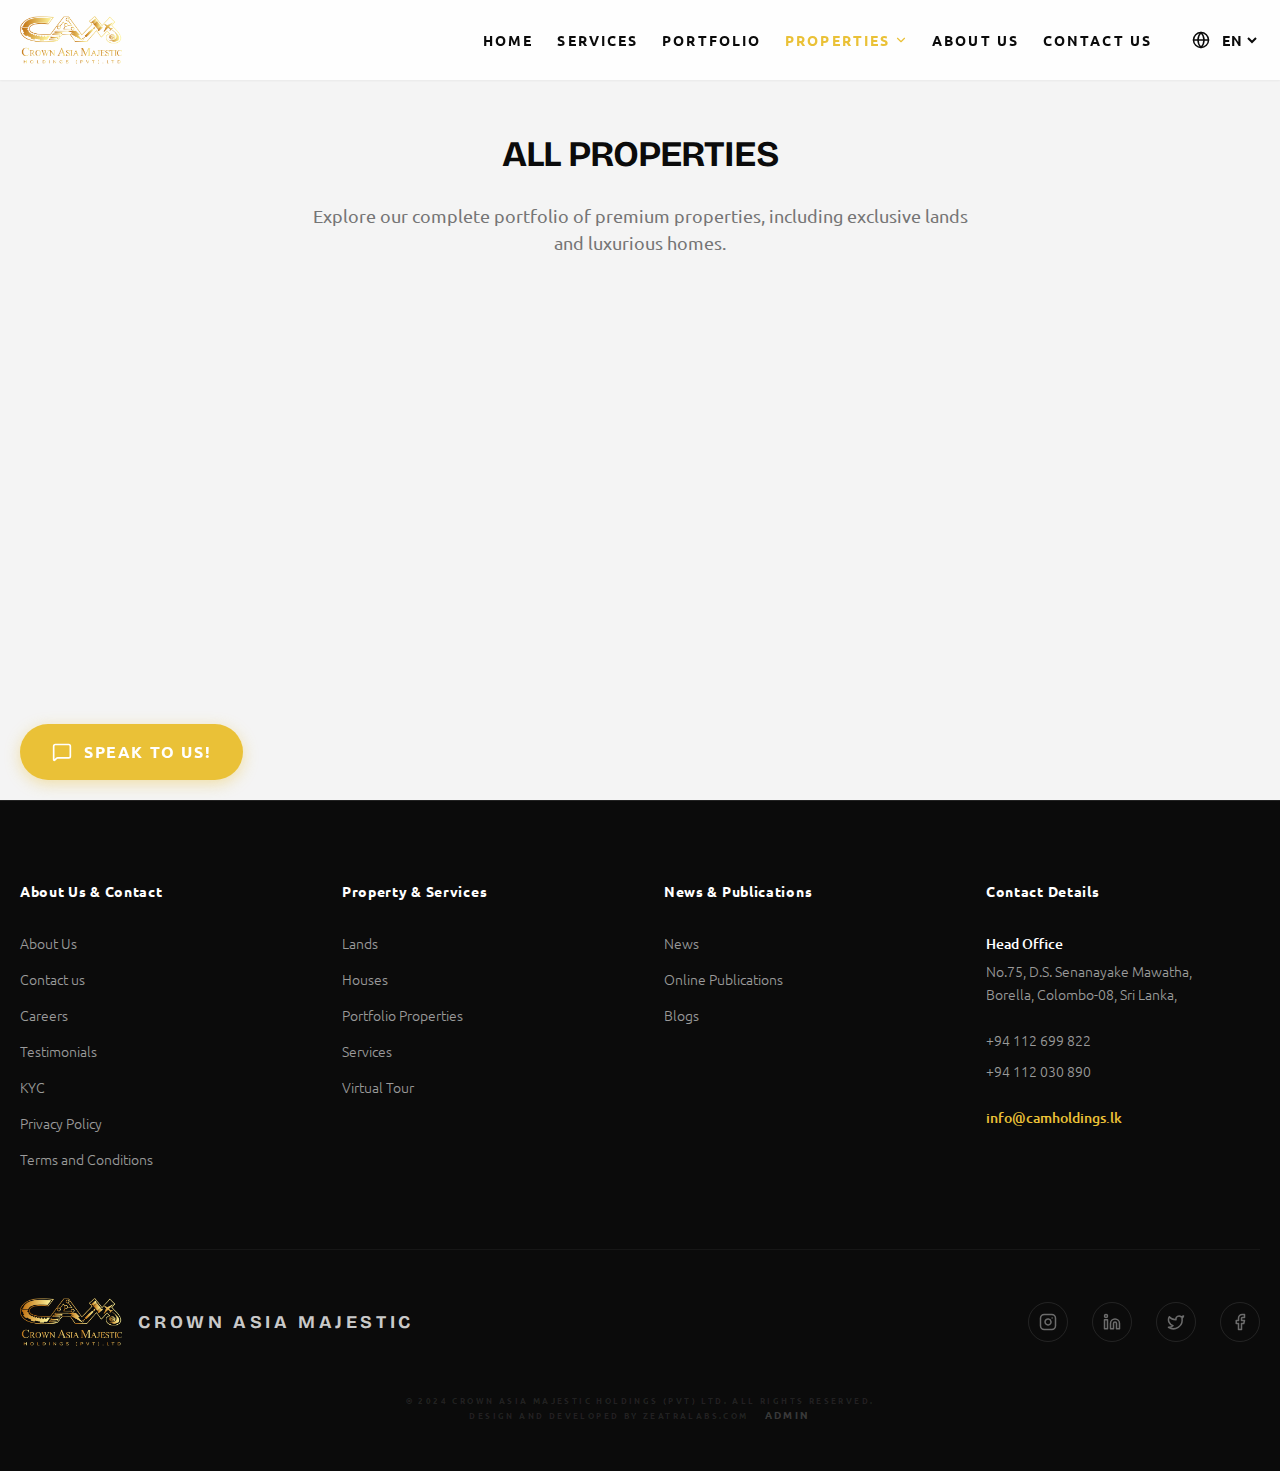
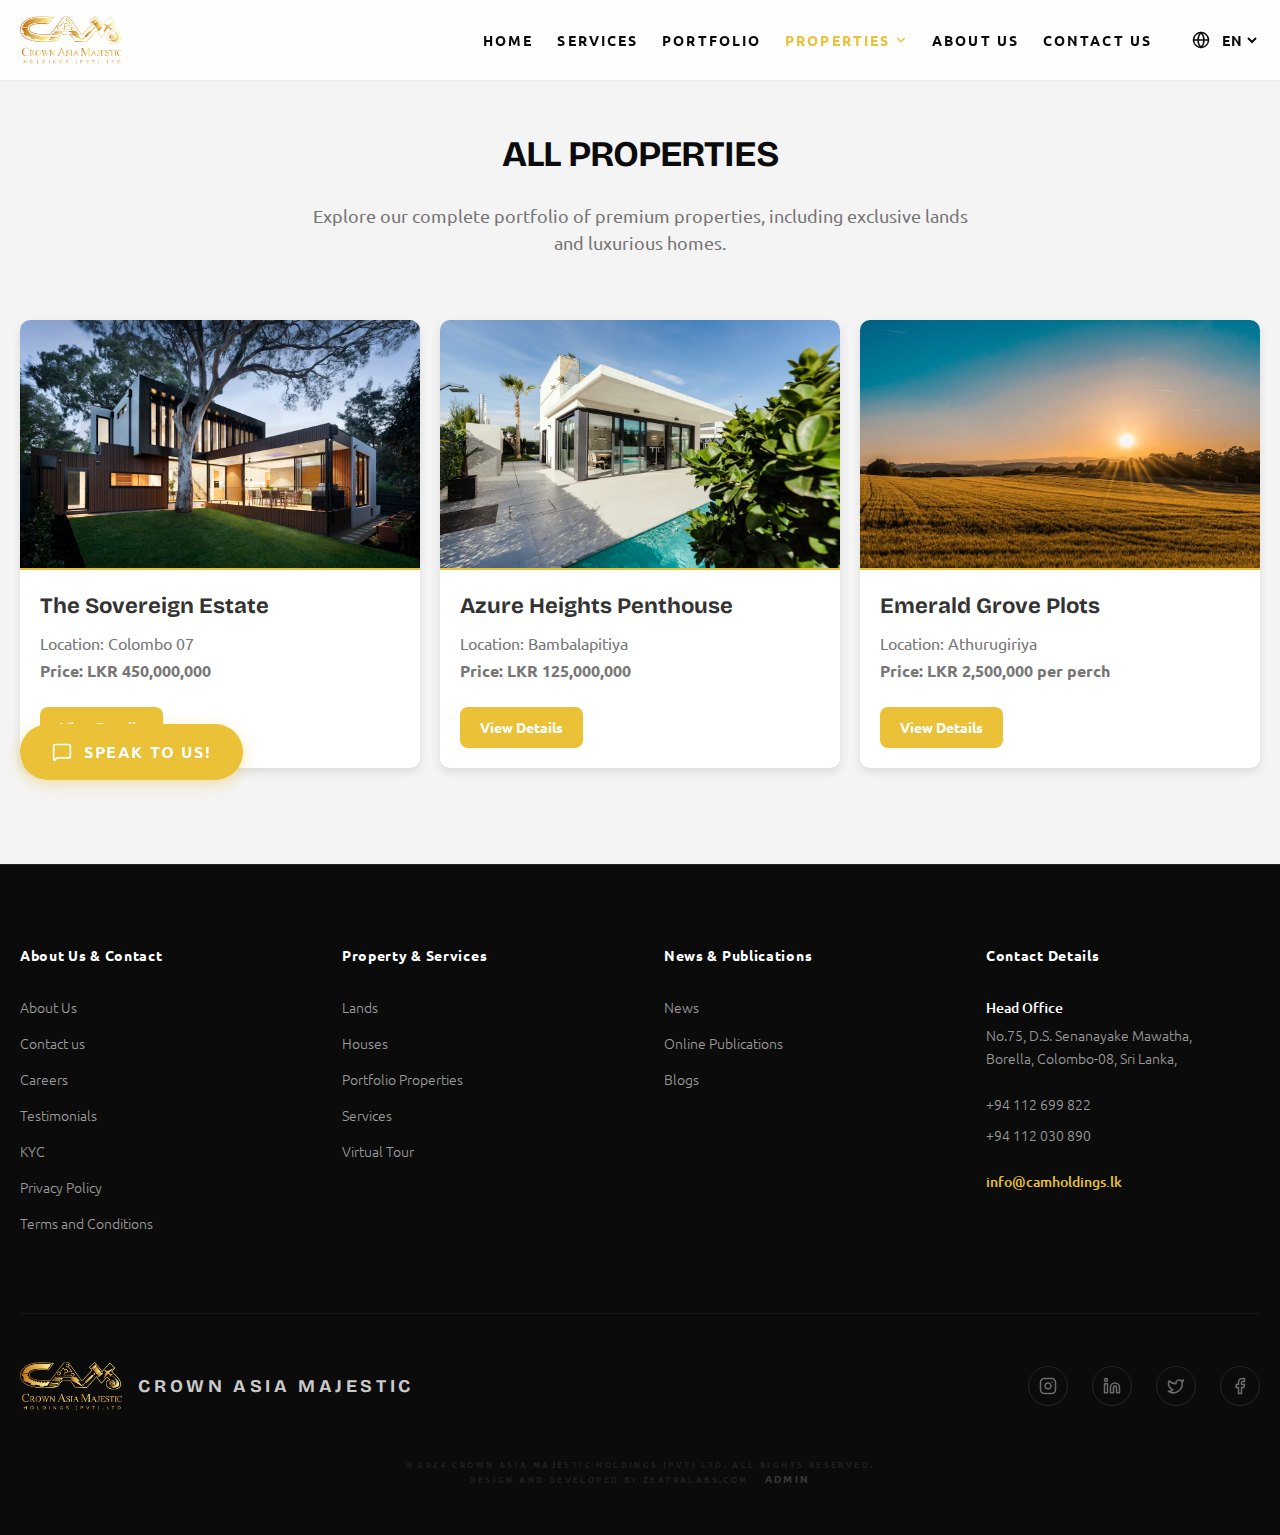
feat: enhance property details and card UI
- Added `gallery` field to `Property` interface.
- Updated `/api/properties` to return gallery images for all properties.
- Updated `PropertyCard` to include an image carousel and restyled it to match a premium layout with stats (beds, baths) and price.
- Revamped the property detail view in `App.tsx` with a 2-column layout, image grid, detailed features, and a sticky inquiry form section.

diff --git a/App.tsx b/App.tsx
@@ -36,7 +36,7 @@ import {
   Loader2
 } from 'lucide-react';
 
-type Page = 'home' | 'projects' | 'lands' | 'houses' | 'detail' | 'portfolio-detail' | 'services' | 'service-detail' | 'about' | 'contact' | 'portfolio' | 'testimonials' | 'kyc' | 'privacy' | 'terms' | 'virtual-tour' | 'news' | 'publications' | 'blogs' | 'admin';
+type Page = 'home' | 'properties' | 'projects' | 'lands' | 'houses' | 'detail' | 'portfolio-detail' | 'services' | 'service-detail' | 'about' | 'contact' | 'portfolio' | 'testimonials' | 'kyc' | 'privacy' | 'terms' | 'virtual-tour' | 'news' | 'publications' | 'blogs' | 'admin';
 
 interface Service {
   id: string;
@@ -626,33 +626,147 @@ const App: React.FC = () => {
         )}
 
         {/* 8. Detail Page View */}
-        {activePage === 'detail' && (
-          <div className="animate-in fade-in duration-500 bg-white pb-32">
-            <div className="relative h-[60vh] w-full overflow-hidden">
-              <img src={selectedProperty?.image || properties[0]?.image} className="w-full h-full object-cover" alt="Detail" />
-              <div className="absolute inset-0 bg-gradient-to-t from-black/80 via-transparent to-transparent" />
-              <div className="absolute bottom-12 px-mobile w-full flex justify-center">
-                <div className="max-w-7xl w-full">
-                  <div className="flex items-center gap-3 text-luxury-gold mb-4">
-                    <MapPin size={20} />
-                    <span className="text-sm uppercase font-bold tracking-brand">{selectedProperty?.location || 'Location'}</span>
-                  </div>
-                  <h1 className="text-4xl md:text-6xl font-serif text-white leading-tight mb-4 uppercase">{selectedProperty?.title || 'Property Detail'}</h1>
-                </div>
-              </div>
-            </div>
+        {activePage === 'detail' && selectedProperty && (
+          <div className="animate-in fade-in duration-500 bg-[#f8f9fa] pb-32 pt-24">
+            <div className="max-w-7xl mx-auto px-mobile py-12">
+              <div className="grid grid-cols-1 lg:grid-cols-3 gap-12">
 
-            <div className="max-w-7xl mx-auto px-mobile py-16">
-              {selectedProperty?.description && (
-                <div className="mb-12">
-                  <h2 className="text-2xl font-serif font-bold text-luxury-black mb-6 uppercase tracking-tight border-b border-luxury-border pb-4">
-                    Description
-                  </h2>
-                  <div className="prose prose-lg max-w-none text-[#555] font-light leading-relaxed whitespace-pre-line">
-                    {selectedProperty.description}
+                {/* Left Content Area */}
+                <div className="lg:col-span-2 space-y-12">
+
+                  {/* Gallery */}
+                  <div className="bg-white rounded-2xl p-6 shadow-sm border border-luxury-border">
+                    <div className="aspect-[16/9] overflow-hidden rounded-xl mb-4 bg-luxury-offwhite">
+                      <img src={selectedProperty.image} className="w-full h-full object-cover" alt={selectedProperty.title} />
+                    </div>
+                    {selectedProperty.gallery && selectedProperty.gallery.length > 0 && (
+                      <div className="grid grid-cols-4 gap-4">
+                        {selectedProperty.gallery.map((img, idx) => (
+                          <div key={idx} className="aspect-[4/3] rounded-lg overflow-hidden cursor-pointer hover:opacity-80 transition-opacity bg-luxury-offwhite border border-luxury-border">
+                            <img src={img} className="w-full h-full object-cover" alt={`${selectedProperty.title} gallery ${idx + 1}`} />
+                          </div>
+                        ))}
+                      </div>
+                    )}
+                  </div>
+
+                  {/* Details Header */}
+                  <div>
+                     <h1 className="text-3xl md:text-5xl font-serif font-bold text-luxury-black mb-4 uppercase">{selectedProperty.title}</h1>
+                     <div className="flex flex-wrap items-center gap-4 text-[#555] font-medium text-lg">
+                       <span className="flex items-center gap-2"><MapPin size={20} className="text-luxury-black" /> {selectedProperty.location}</span>
+                     </div>
+                  </div>
+
+                  {/* Description */}
+                  {selectedProperty.description && (
+                    <div className="bg-white rounded-2xl p-8 shadow-sm border border-luxury-border">
+                      <h2 className="text-2xl font-serif font-bold text-luxury-black mb-6 border-b border-luxury-border pb-4">About the Project</h2>
+                      <div className="prose prose-lg max-w-none text-[#555] leading-relaxed whitespace-pre-wrap">
+                        {selectedProperty.description}
+                      </div>
+                    </div>
+                  )}
+
+                  {/* Features / Details */}
+                  <div className="bg-white rounded-2xl p-8 shadow-sm border border-luxury-border">
+                      <h2 className="text-2xl font-serif font-bold text-luxury-black mb-6 border-b border-luxury-border pb-4">Premium Features</h2>
+                      <div className="grid grid-cols-2 md:grid-cols-4 gap-6">
+                        <div className="text-center p-4 bg-luxury-offwhite rounded-xl">
+                          <div className="text-sm text-[#777] uppercase tracking-wider mb-2">Price</div>
+                          <div className="font-bold text-luxury-black text-xl">{selectedProperty.price}</div>
+                        </div>
+                        <div className="text-center p-4 bg-luxury-offwhite rounded-xl">
+                          <div className="text-sm text-[#777] uppercase tracking-wider mb-2">Type</div>
+                          <div className="font-bold text-luxury-black text-xl">{selectedProperty.type}</div>
+                        </div>
+                        {selectedProperty.beds !== undefined && (
+                          <div className="text-center p-4 bg-luxury-offwhite rounded-xl">
+                            <div className="text-sm text-[#777] uppercase tracking-wider mb-2">Beds</div>
+                            <div className="font-bold text-luxury-black text-xl">{selectedProperty.beds}</div>
+                          </div>
+                        )}
+                        {selectedProperty.baths !== undefined && (
+                          <div className="text-center p-4 bg-luxury-offwhite rounded-xl">
+                            <div className="text-sm text-[#777] uppercase tracking-wider mb-2">Baths</div>
+                            <div className="font-bold text-luxury-black text-xl">{selectedProperty.baths}</div>
+                          </div>
+                        )}
+                      </div>
                   </div>
                 </div>
-              )}
+
+                {/* Right Sticky Sidebar (Inquiry Form) */}
+                <div className="lg:col-span-1">
+                  <div className="sticky top-32 bg-white rounded-2xl p-8 shadow-[0px_8px_30px_rgba(0,0,0,0.06)] border border-luxury-border">
+                    <div className="text-center mb-8">
+                       <h3 className="text-xl font-bold text-[#777] uppercase tracking-wider mb-2">Starting Price</h3>
+                       <div className="text-3xl font-bold text-luxury-black">{selectedProperty.price}</div>
+                    </div>
+
+                    <h3 className="text-2xl font-serif font-bold text-luxury-black mb-6 uppercase border-b border-luxury-border pb-4 text-center">Inquire</h3>
+
+                    <form
+                      className="space-y-4"
+                      onSubmit={async (e) => {
+                        e.preventDefault();
+                        const form = e.target as HTMLFormElement;
+                        const formData = new FormData(form);
+                        const data = {
+                          full_name: formData.get('name'),
+                          email: formData.get('email'),
+                          phone: formData.get('phone'),
+                          message: formData.get('message'),
+                          subject: `Inquiry for ${selectedProperty.title}`,
+                          service: 'Property Inquiry'
+                        };
+
+                        try {
+                           const res = await fetch('/api/inquiries', {
+                             method: 'POST',
+                             headers: { 'Content-Type': 'application/json' },
+                             body: JSON.stringify(data)
+                           });
+                           if (res.ok) {
+                             alert('Inquiry sent successfully!');
+                             form.reset();
+                           } else {
+                             alert('Failed to send inquiry.');
+                           }
+                        } catch (err) {
+                          console.error(err);
+                          alert('An error occurred.');
+                        }
+                      }}
+                    >
+                      <div>
+                        <input name="name" type="text" placeholder="Name" required className="w-full p-4 border border-[#ddd] rounded-xl focus:ring-1 focus:ring-luxury-gold focus:border-luxury-gold outline-none transition-all text-[15px] bg-[#fafafa]" />
+                      </div>
+                      <div>
+                        <input name="phone" type="tel" placeholder="Phone Number" required className="w-full p-4 border border-[#ddd] rounded-xl focus:ring-1 focus:ring-luxury-gold focus:border-luxury-gold outline-none transition-all text-[15px] bg-[#fafafa]" />
+                      </div>
+                      <div>
+                        <input name="email" type="email" placeholder="Email Address" required className="w-full p-4 border border-[#ddd] rounded-xl focus:ring-1 focus:ring-luxury-gold focus:border-luxury-gold outline-none transition-all text-[15px] bg-[#fafafa]" />
+                      </div>
+                      <div>
+                        <textarea name="message" placeholder="Message" required rows={4} className="w-full p-4 border border-[#ddd] rounded-xl focus:ring-1 focus:ring-luxury-gold focus:border-luxury-gold outline-none transition-all resize-none text-[15px] bg-[#fafafa]"></textarea>
+                      </div>
+                      <button type="submit" className="w-full bg-[#0A41A8] hover:bg-[#083180] text-white px-6 py-4 rounded-xl font-bold uppercase tracking-wide transition-all mt-4 text-[15px] shadow-md">
+                        Submit Inquiry
+                      </button>
+                    </form>
+
+                    <div className="mt-8 text-center border-t border-luxury-border pt-6">
+                      <div className="text-[13px] text-[#777] uppercase tracking-widest mb-2 font-bold">Hotline Numbers</div>
+                      <a href="tel:0712030838" className="text-xl font-bold text-luxury-black flex items-center justify-center gap-2 hover:text-luxury-gold transition-colors">
+                        <Phone size={20} />
+                        071 20 30 838
+                      </a>
+                    </div>
+                  </div>
+                </div>
+
+              </div>
             </div>
           </div>
         )}

diff --git a/components/PropertyCard.tsx b/components/PropertyCard.tsx
@@ -1,5 +1,5 @@
-import React from 'react';
-import { MapPin, ChevronRight } from 'lucide-react';
+import React, { useState } from 'react';
+import { MapPin, ChevronRight, Bed, Bath, ArrowRight, ChevronLeft } from 'lucide-react';
 import { Property } from '../types';
 
 interface PropertyCardProps {
@@ -8,48 +8,103 @@ interface PropertyCardProps {
 }
 
 const PropertyCard: React.FC<PropertyCardProps> = ({ property, onClick }) => {
+  const images = property.gallery && property.gallery.length > 0 ? property.gallery : [property.image];
+  const [currentImageIdx, setCurrentImageIdx] = useState(0);
+
+  const handleNext = (e: React.MouseEvent) => {
+    e.stopPropagation();
+    setCurrentImageIdx((prev) => (prev + 1) % images.length);
+  };
+
+  const handlePrev = (e: React.MouseEvent) => {
+    e.stopPropagation();
+    setCurrentImageIdx((prev) => (prev - 1 + images.length) % images.length);
+  };
+
   return (
     <div 
       onClick={onClick}
-      className="group bg-white rounded-2xl overflow-hidden shadow-sm border border-luxury-border transition-all active:scale-[0.98] hover:shadow-md cursor-pointer"
+      className="group bg-white rounded-2xl overflow-hidden shadow-sm border border-luxury-border transition-all active:scale-[0.98] hover:shadow-xl cursor-pointer flex flex-col h-full"
     >
-      <div className="relative aspect-[16/10] overflow-hidden">
+      <div className="relative aspect-[4/5] overflow-hidden">
         <img 
-          src={property.image} 
+          src={images[currentImageIdx]}
           alt={property.title}
-          className="w-full h-full object-cover grayscale-[0.1] group-hover:grayscale-0 transition-all duration-700"
+          className="w-full h-full object-cover transition-all duration-700"
         />
-        <div className="absolute top-4 left-4 bg-luxury-black/60 backdrop-blur-md text-white text-[8px] uppercase tracking-widest px-3 py-1.5 font-bold rounded-lg">
-          {property.type}
-        </div>
-        <div className="absolute top-4 right-4 bg-luxury-gold text-luxury-black text-[8px] uppercase tracking-widest px-3 py-1.5 font-bold rounded-lg shadow-gold-glow">
+
+        {images.length > 1 && (
+          <>
+            <button
+              onClick={handlePrev}
+              className="absolute left-2 top-1/2 -translate-y-1/2 bg-white/50 hover:bg-white text-luxury-black p-1.5 rounded-full backdrop-blur-md transition-colors opacity-0 group-hover:opacity-100"
+            >
+              <ChevronLeft size={20} />
+            </button>
+            <button
+              onClick={handleNext}
+              className="absolute right-2 top-1/2 -translate-y-1/2 bg-white/50 hover:bg-white text-luxury-black p-1.5 rounded-full backdrop-blur-md transition-colors opacity-0 group-hover:opacity-100"
+            >
+              <ChevronRight size={20} />
+            </button>
+            <div className="absolute bottom-4 left-1/2 -translate-x-1/2 flex gap-1.5 z-10">
+              {images.map((_, idx) => (
+                <div
+                  key={idx}
+                  className={`h-1.5 rounded-full transition-all ${idx === currentImageIdx ? 'w-4 bg-white' : 'w-1.5 bg-white/50'}`}
+                />
+              ))}
+            </div>
+          </>
+        )}
+
+        <div className="absolute top-4 right-4 bg-[#0A41A8] text-white text-[10px] uppercase tracking-widest px-3 py-1.5 font-bold rounded">
           {property.featured ? 'Ongoing' : 'Delivered'}
         </div>
       </div>
       
-      <div className="p-6">
-        <div className="flex items-center gap-2 text-luxury-gold mb-3">
-          <MapPin size={12} />
-          <span className="text-[9px] uppercase tracking-widest font-bold">{property.location}</span>
-        </div>
-        
-        <h4 className={`text-xl font-serif font-bold text-luxury-black leading-snug group-hover:text-luxury-gold transition-colors duration-300 ${property.description ? 'mb-2' : 'mb-6'}`}>
+      <div className="p-6 flex flex-col flex-grow">
+        <h4 className="text-[22px] font-bold text-luxury-black leading-snug mb-3 uppercase tracking-tight">
           {property.title}
         </h4>
 
-        {property.description && (
-          <p className="text-sm text-luxury-gray line-clamp-3 md:line-clamp-2 mb-6">
-            {property.description}
-          </p>
-        )}
+        <div className="flex items-center gap-2 text-[#555] mb-5">
+          <MapPin size={16} className="text-luxury-black" />
+          <span className="text-[14px] uppercase tracking-wide font-medium">{property.location}</span>
+        </div>
         
-        <div className="flex justify-between items-center pt-5 border-t border-luxury-border">
-          <span className="text-sm font-bold text-luxury-black tracking-widest">
-            {property.price.includes('per') ? property.price.split(' ')[1] : property.price}
-          </span>
-          <span className="text-[9px] uppercase tracking-widest font-bold text-luxury-gold flex items-center gap-1 group-hover:translate-x-1 transition-transform">
-            Details <ChevronRight size={14} />
-          </span>
+        <div className="mb-6">
+          <div className="text-[24px] font-bold text-luxury-black tracking-tight flex items-center gap-2">
+            {property.price}
+          </div>
+          {property.price.toLowerCase().includes('per') && (
+            <div className="text-[12px] text-[#777] italic mt-1">Per Unit Upwards</div>
+          )}
+        </div>
+
+        <div className="flex items-center gap-8 py-5 border-y border-[#eee] mb-5 mt-auto">
+          {(property.beds !== undefined && property.beds > 0) && (
+            <div className="flex items-center gap-3">
+              <Bed size={24} className="text-[#555]" />
+              <div>
+                <div className="font-bold text-luxury-black text-[16px]">{property.beds}</div>
+                <div className="text-[12px] text-[#777]">Bed Rooms</div>
+              </div>
+            </div>
+          )}
+          {(property.baths !== undefined && property.baths > 0) && (
+            <div className="flex items-center gap-3">
+              <Bath size={24} className="text-[#555]" />
+              <div>
+                <div className="font-bold text-luxury-black text-[16px]">{property.baths}</div>
+                <div className="text-[12px] text-[#777]">Bathrooms</div>
+              </div>
+            </div>
+          )}
+        </div>
+
+        <div className="flex items-center gap-2 text-[14px] font-medium text-[#555] hover:text-luxury-black transition-colors mt-2">
+          Explore {property.type === 'Apartment' ? 'Apartment' : property.type} <ArrowRight size={16} />
         </div>
       </div>
     </div>

diff --git a/server.js b/server.js
@@ -472,6 +472,13 @@ app.get('/api/properties', async (req, res) => {
     sql += ' ORDER BY created_at DESC';
 
     const properties = await query(sql, params);
+
+    // Fetch gallery images for all properties
+    for (const property of properties) {
+      const images = await query('SELECT image_url FROM property_images WHERE property_id = ?', [property.id]);
+      property.gallery = images.map(img => img.image_url);
+    }
+
     res.json(properties);
   } catch (err) {
     console.error('Error fetching properties:', err);

diff --git a/components/admin/EditProperty.tsx b/components/admin/EditProperty.tsx
@@ -73,7 +73,7 @@ const EditProperty: React.FC<EditPropertyProps> = ({ propertyId, onSuccess, onCa
       const files = Array.from(e.target.files);
       setGalleryImages(prev => [...prev, ...files]);
 
-      const newPreviews = files.map(file => URL.createObjectURL(file));
+      const newPreviews = files.map(file => URL.createObjectURL(file as unknown as Blob));
       setGalleryPreviews(prev => [...prev, ...newPreviews]);
     }
   };

diff --git a/components/admin/AddProperty.tsx b/components/admin/AddProperty.tsx
@@ -42,7 +42,7 @@ const AddProperty: React.FC<AddPropertyProps> = ({ onSuccess, onCancel }) => {
       const files = Array.from(e.target.files);
       setGalleryImages(prev => [...prev, ...files]);
 
-      const newPreviews = files.map(file => URL.createObjectURL(file));
+      const newPreviews = files.map(file => URL.createObjectURL(file as unknown as Blob));
       setGalleryPreviews(prev => [...prev, ...newPreviews]);
     }
   };

diff --git a/types.ts b/types.ts
@@ -22,6 +22,7 @@ export interface Property {
   sqft?: number;
   featured?: boolean;
   floorPlans?: FloorPlan[];
+  gallery?: string[];
 }
 
 export interface Project {
